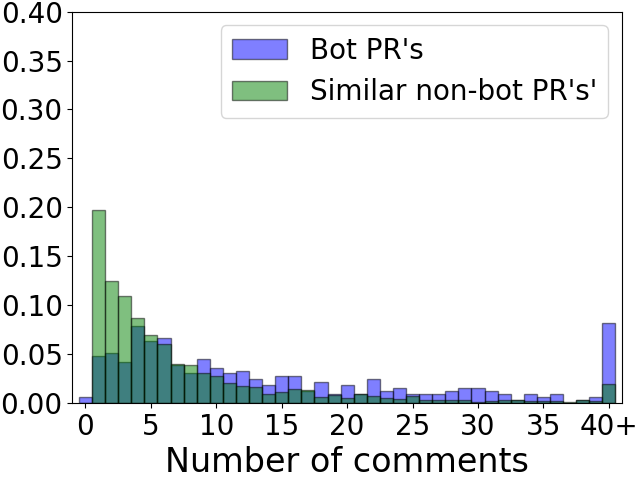
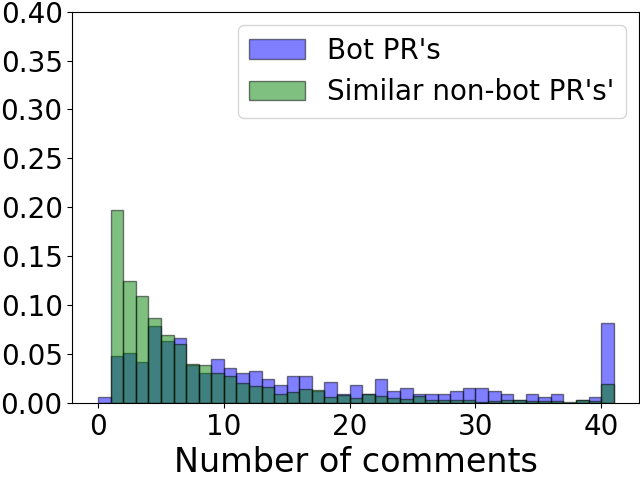
ready to mine swift

diff --git a/src/analysis/hypotheses/pr_activity.py b/src/analysis/hypotheses/pr_activity.py
@@ -91,102 +91,105 @@ def generate_comments(owner, repo, data_set):
 
     # get_distributions does not work correctly for bot PR's as benchmarking bot can also comment on the PR. This would
     # inflate the actual number of human contributions.
-    bot_pr_comments_distribution_without_bot_contribution = []
-    for pr in data_set["bot_prs"]:
-        benchmark_bot_contributions = 0
-        for pair in pr["commenterAndLengths"]:
-            if pair[0] == get_bot_username(owner, repo):
-                benchmark_bot_contributions += 1
-        bot_pr_comments_distribution_without_bot_contribution.append(
-            max(0, len(pr["commenterAndLengths"]) - (2 * benchmark_bot_contributions))
-        )
-
-    number_of_comments_distributions = get_distributions(data_set, "comments")
-
-    qq_plot.qq_plotting(owner, repo, data_set["name"], bot_pr_comments_distribution_without_bot_contribution,
-                        number_of_comments_distributions[1],
-                        data_set["bot_prs_name"],
-                        data_set["non_bot_prs_name"], "comments")
-
-    frequency_graph.create_overlapping_histogram(
-        owner,
-        repo,
-        data_set["name"],
-        "Number of comments",
-        40,
-        bot_pr_comments_distribution_without_bot_contribution,
-        data_set["bot_prs_name"],
-        number_of_comments_distributions[1],
-        data_set["non_bot_prs_name"],
-        0.4,
-        True,
-        5,
-        False
-    )
-
-    at_least = 5
-
-    bot_pr_comments_distribution_without_bot_contribution = []
-    for pr in data_set["bot_prs"]:
-        benchmark_bot_contributions = 0
-        for pair in pr["commenterAndLengths"]:
-            if pair[0] == get_bot_username(owner, repo):
-                benchmark_bot_contributions += 1
-        result = max(0, len(pr["commenterAndLengths"]) - (2 * benchmark_bot_contributions))
-        if result >= at_least:
-            bot_pr_comments_distribution_without_bot_contribution.append(result)
-
-    number_of_comments_distributions = get_distributions(data_set, "comments", at_least)
-
-    qq_plot.qq_plotting(owner, repo, data_set["name"], bot_pr_comments_distribution_without_bot_contribution,
-                        number_of_comments_distributions[1],
-                        data_set["bot_prs_name"],
-                        data_set["non_bot_prs_name"], f"comments at least {at_least}")
-
-    frequency_graph.create_overlapping_histogram(
-        owner,
-        repo,
-        data_set["name"],
-        f"Number of comments at least {at_least}",
-        40,
-        bot_pr_comments_distribution_without_bot_contribution,
-        data_set["bot_prs_name"],
-        number_of_comments_distributions[1],
-        data_set["non_bot_prs_name"],
-        0.4,
-        True,
-        5,
-        False
-    )
+    # bot_pr_comments_distribution_without_bot_contribution = []
+    # for pr in data_set["bot_prs"]:
+    #     benchmark_bot_contributions = 0
+    #     for pair in pr["commenterAndLengths"]:
+    #         if pair[0] == get_bot_username(owner, repo):
+    #             benchmark_bot_contributions += 1
+    #     bot_pr_comments_distribution_without_bot_contribution.append(
+    #         max(0, len(pr["commenterAndLengths"]) - (2 * benchmark_bot_contributions))
+    #     )
+    #
+    # number_of_comments_distributions = get_distributions(data_set, "comments")
+    #
+    # qq_plot.qq_plotting(owner, repo, data_set["name"], bot_pr_comments_distribution_without_bot_contribution,
+    #                     number_of_comments_distributions[1],
+    #                     data_set["bot_prs_name"],
+    #                     data_set["non_bot_prs_name"], "comments")
+    #
+    # frequency_graph.create_overlapping_histogram(
+    #     owner,
+    #     repo,
+    #     data_set["name"],
+    #     "Number of comments",
+    #     40,
+    #     bot_pr_comments_distribution_without_bot_contribution,
+    #     data_set["bot_prs_name"],
+    #     number_of_comments_distributions[1],
+    #     data_set["non_bot_prs_name"],
+    #     0.4,
+    #     True,
+    #     5,
+    #     False
+    # )
+    #
+    # at_least = 5
+    #
+    # bot_pr_comments_distribution_without_bot_contribution = []
+    # for pr in data_set["bot_prs"]:
+    #     benchmark_bot_contributions = 0
+    #     for pair in pr["commenterAndLengths"]:
+    #         if pair[0] == get_bot_username(owner, repo):
+    #             benchmark_bot_contributions += 1
+    #     result = max(0, len(pr["commenterAndLengths"]) - (2 * benchmark_bot_contributions))
+    #     if result >= at_least:
+    #         bot_pr_comments_distribution_without_bot_contribution.append(result)
+    #
+    # number_of_comments_distributions = get_distributions(data_set, "comments", at_least)
+    #
+    # qq_plot.qq_plotting(owner, repo, data_set["name"], bot_pr_comments_distribution_without_bot_contribution,
+    #                     number_of_comments_distributions[1],
+    #                     data_set["bot_prs_name"],
+    #                     data_set["non_bot_prs_name"], f"comments at least {at_least}")
+    #
+    # # Comment when doing step histogram
+    # frequency_graph.create_overlapping_histogram(
+    #     owner,
+    #     repo,
+    #     data_set["name"],
+    #     f"Number of comments at least {at_least}",
+    #     40,
+    #     bot_pr_comments_distribution_without_bot_contribution,
+    #     data_set["bot_prs_name"],
+    #     number_of_comments_distributions[1],
+    #     data_set["non_bot_prs_name"],
+    #     0.4,
+    #     True,
+    #     5,
+    #     False
+    # )
 
     # comments length distribution
     comment_lengths_bot_prs = get_total_comment_lengths_without_bot_contribution(owner, repo, data_set, "bot_prs")
     comment_lengths_non_bot_prs = get_total_comment_lengths_without_bot_contribution(owner, repo, data_set,
                                                                                      "non_bot_prs")
 
-    qq_plot.qq_plotting(owner, repo, data_set["name"], comment_lengths_bot_prs,
-                        comment_lengths_non_bot_prs,
-                        data_set["bot_prs_name"],
-                        data_set["non_bot_prs_name"], "comment_lengths")
+    # qq_plot.qq_plotting(owner, repo, data_set["name"], comment_lengths_bot_prs,
+    #                     comment_lengths_non_bot_prs,
+    #                     data_set["bot_prs_name"],
+    #                     data_set["non_bot_prs_name"], "comment_lengths")
 
-    frequency_graph.create_overlapping_histogram(
+    frequency_graph.create_overlapping_histogram_step(
         owner,
         repo,
         data_set["name"],
-        "Total comment length (x10000)",
+        "Total comment length",
         50000,
         comment_lengths_bot_prs,
         data_set["bot_prs_name"],
         comment_lengths_non_bot_prs,
         data_set["non_bot_prs_name"],
-        0.01,
+        1000,
         True,
         10000,
-        True
+        True,
+        False,
+        5000
     )
 
-    comments_printer(owner, repo, data_set, "bot_prs")
-    comments_printer(owner, repo, data_set, "non_bot_prs")
+    # comments_printer(owner, repo, data_set, "bot_prs")
+    # comments_printer(owner, repo, data_set, "non_bot_prs")
 
 
 def generate_reviews(owner, repo, data_set):

diff --git a/src/analysis/plotting/frequency_graph.py b/src/analysis/plotting/frequency_graph.py
@@ -6,11 +6,45 @@ import numpy as np
 from src.analysis import helpers
 
 
+def create_overlapping_histogram_step(owner, repo, data_set_name, x_label, overflow_value, first_values, first_name,
+                                      second_values=None, second_name=None, max_value=1.0, overflow=False,
+                                      tick_frequency=5,
+                                      is_step=False, density=True, step_size=1):
+    max_val = 0
+    if overflow:
+        bins = range(0, overflow_value, step_size)
+
+        if is_step:
+            res = plt.hist(np.clip(first_values, bins[0], bins[-1] - 1), bins, label=first_name, color='blue',
+                           density=density, histtype='step')
+            print(res[0])
+            max_val = max(res)
+
+            if second_values is not None:
+                res = plt.hist(np.clip(second_values, bins[0], bins[-1] - 1), bins, label=second_name, color='green',
+                               density=density, histtype='step')
+                max_val = max(res)
+
+    plt.xlabel(x_label)
+    plt.xlabel(x_label, size=24)
+
+    plt.xticks(size=16)
+    plt.yticks(size=16)
+    plt.legend(loc='upper right', fontsize=20)
+    plt.ylim([0, max_val])
+
+    plt.tight_layout(pad=0.04)
+    plt.savefig(helpers.get_graph_path(owner, repo) + f"/frequency/{data_set_name}_{x_label.replace(' ', '_')}.png",
+                transparent=True)
+
+    plt.show()
+
+
 def create_overlapping_histogram(owner, repo, data_set_name, x_label, overflow_value, first_values, first_name,
                                  second_values=None, second_name=None, max_value=1.0, overflow=False, tick_frequency=5,
-                                 is_step=False, density=True):
+                                 is_step=False, density=True, step_size=1):
     if overflow:
-        bins = range(0, overflow_value + 2)
+        bins = range(0, overflow_value + 2, step_size)
 
         if is_step:
             plt.hist(np.clip(first_values, bins[0], bins[-1] - 1), bins, label=first_name, color='blue',
@@ -22,7 +56,8 @@ def create_overlapping_histogram(owner, repo, data_set_name, x_label, overflow_v
             plt.hist(np.clip(first_values, bins[0], bins[-1] - 1), bins, alpha=0.5, label=first_name, color='blue',
                      edgecolor="black", density=density)
             if second_values is not None:
-                plt.hist(np.clip(second_values, bins[0], bins[-1] - 1), bins, alpha=0.5, label=second_name, color='green',
+                plt.hist(np.clip(second_values, bins[0], bins[-1] - 1), bins, alpha=0.5, label=second_name,
+                         color='green',
                          edgecolor="black", density=density)
 
         x_labels = [str(i) for i in bins]
@@ -40,7 +75,7 @@ def create_overlapping_histogram(owner, repo, data_set_name, x_label, overflow_v
         plt.xlim([0 - 0.5, max(bins) + 0.5])
         plt.xticks(tick_frequency * np.arange(N_labels) + 0.5, x_labels_frequency)
     else:
-        bins = range(0, overflow_value + 2)
+        bins = range(0, overflow_value + 2, step_size)
 
         if is_step:
             plt.hist(first_values, [bucket - 0.5 for bucket in bins], label=first_name, color='blue',

diff --git a/src/analysis/hypotheses/pr_impact.py b/src/analysis/hypotheses/pr_impact.py
@@ -46,27 +46,44 @@ def generate_commits(owner, repo, data_set):
                         data_set["bot_prs_name"],
                         data_set["non_bot_prs_name"], "Number of commits")
 
-    x_dist = [commit for commit in distributions[0] if commit < 200]
-    y_dist = [commit for commit in distributions[1] if commit < 200]
-
-    qq_plot.qq_plotting(owner, repo, data_set["name"], x_dist, y_dist,
-                        data_set["bot_prs_name"],
-                        data_set["non_bot_prs_name"], "Number of commits #<200")
-
     # Histogram
     frequency_graph.create_overlapping_histogram(
         owner,
         repo,
         data_set["name"],
-        "Number of commits added",
+        "Number of commits",
         60,
         distributions[0],
         data_set["bot_prs_name"],
         distributions[1],
         data_set["non_bot_prs_name"],
-        0.5,
+        0.6,
         True
     )
+
+    at_most = 200
+
+    x_dist = [commit for commit in distributions[0] if commit <= at_most]
+    y_dist = [commit for commit in distributions[1] if commit <= at_most]
+
+    qq_plot.qq_plotting(owner, repo, data_set["name"], x_dist, y_dist,
+                        data_set["bot_prs_name"],
+                        data_set["non_bot_prs_name"], f"Number of commits at most {at_most}")
+
+    at_least = 3
+
+    distributions = get_distributions(data_set, "benchmarkBotFreeParticipants", at_least)
+
+    qq_plot.qq_plotting(owner, repo, data_set["name"], distributions[0], distributions[1],
+                        data_set["bot_prs_name"],
+                        data_set["non_bot_prs_name"], f"Number of commits at least {at_least}")
+
+    x_dist = [commit for commit in distributions[0] if commit <= at_most]
+    y_dist = [commit for commit in distributions[1] if commit <= at_most]
+
+    qq_plot.qq_plotting(owner, repo, data_set["name"], x_dist, y_dist,
+                        data_set["bot_prs_name"],
+                        data_set["non_bot_prs_name"], f"Number of commits at least {at_least} at most {at_most}")
 
 
 def source_files_changed_printer(owner, repo, data_set, pr_type):

diff --git a/src/analysis/plotting/qq_plot.py b/src/analysis/plotting/qq_plot.py
@@ -6,7 +6,7 @@ from scipy import stats
 from src.analysis import helpers
 
 
-def qq_plotting(owner, repo, data_set_name, x_distribution, y_distribution, x_label, y_label, file_name):
+def qq_plotting(owner, repo, data_set_name, x_distribution, y_distribution, x_label, y_label, file_name, log_scale=False):
     plt.figure()
     qq_plot(x_distribution, y_distribution, edgecolor='k')
     plt.xlabel(x_label, size=20)
@@ -26,7 +26,7 @@ def qq_plotting(owner, repo, data_set_name, x_distribution, y_distribution, x_la
     plt.show()
 
 
-def qq_plot(x, y, quantiles=None, interpolation='nearest', ax=None, rug=False,
+def qq_plot(x, y, log_scale=False, quantiles=None, interpolation='nearest', ax=None, rug=False,
             rug_length=0.05, rug_kwargs=None, **kwargs):
     """Draw a quantile-quantile plot for `x` versus `y`.
 
@@ -34,6 +34,8 @@ def qq_plot(x, y, quantiles=None, interpolation='nearest', ax=None, rug=False,
     ----------
     x, y : array-like
         One-dimensional numeric arrays.
+
+    log_scale :
 
     ax : matplotlib.axes.Axes, optional
         Axes on which to plot. If not provided, the current axes will be used.
@@ -99,3 +101,7 @@ def qq_plot(x, y, quantiles=None, interpolation='nearest', ax=None, rug=False,
 
     # Draw the q-q plot
     ax.scatter(x_quantiles, y_quantiles, **kwargs)
+
+    if log_scale:
+        ax.set_yscale('log')
+        ax.set_xscale('log')
